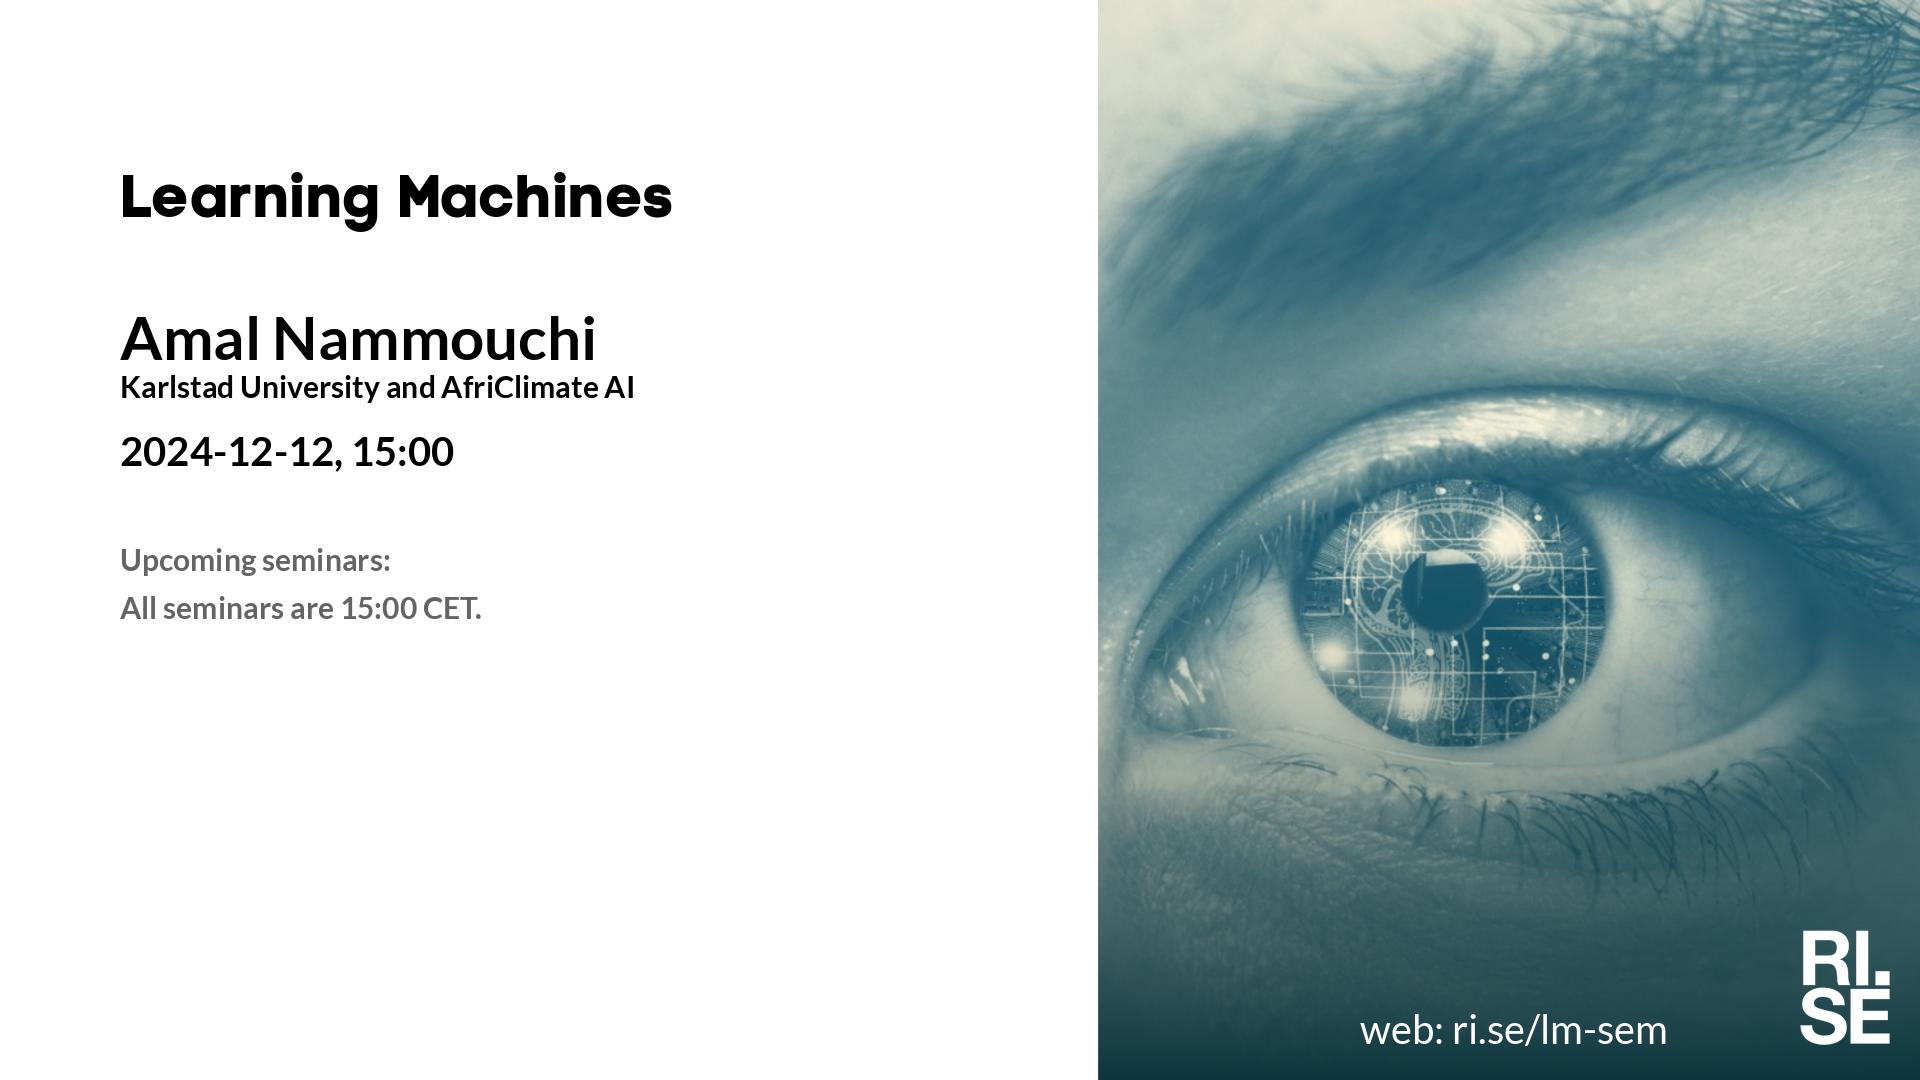
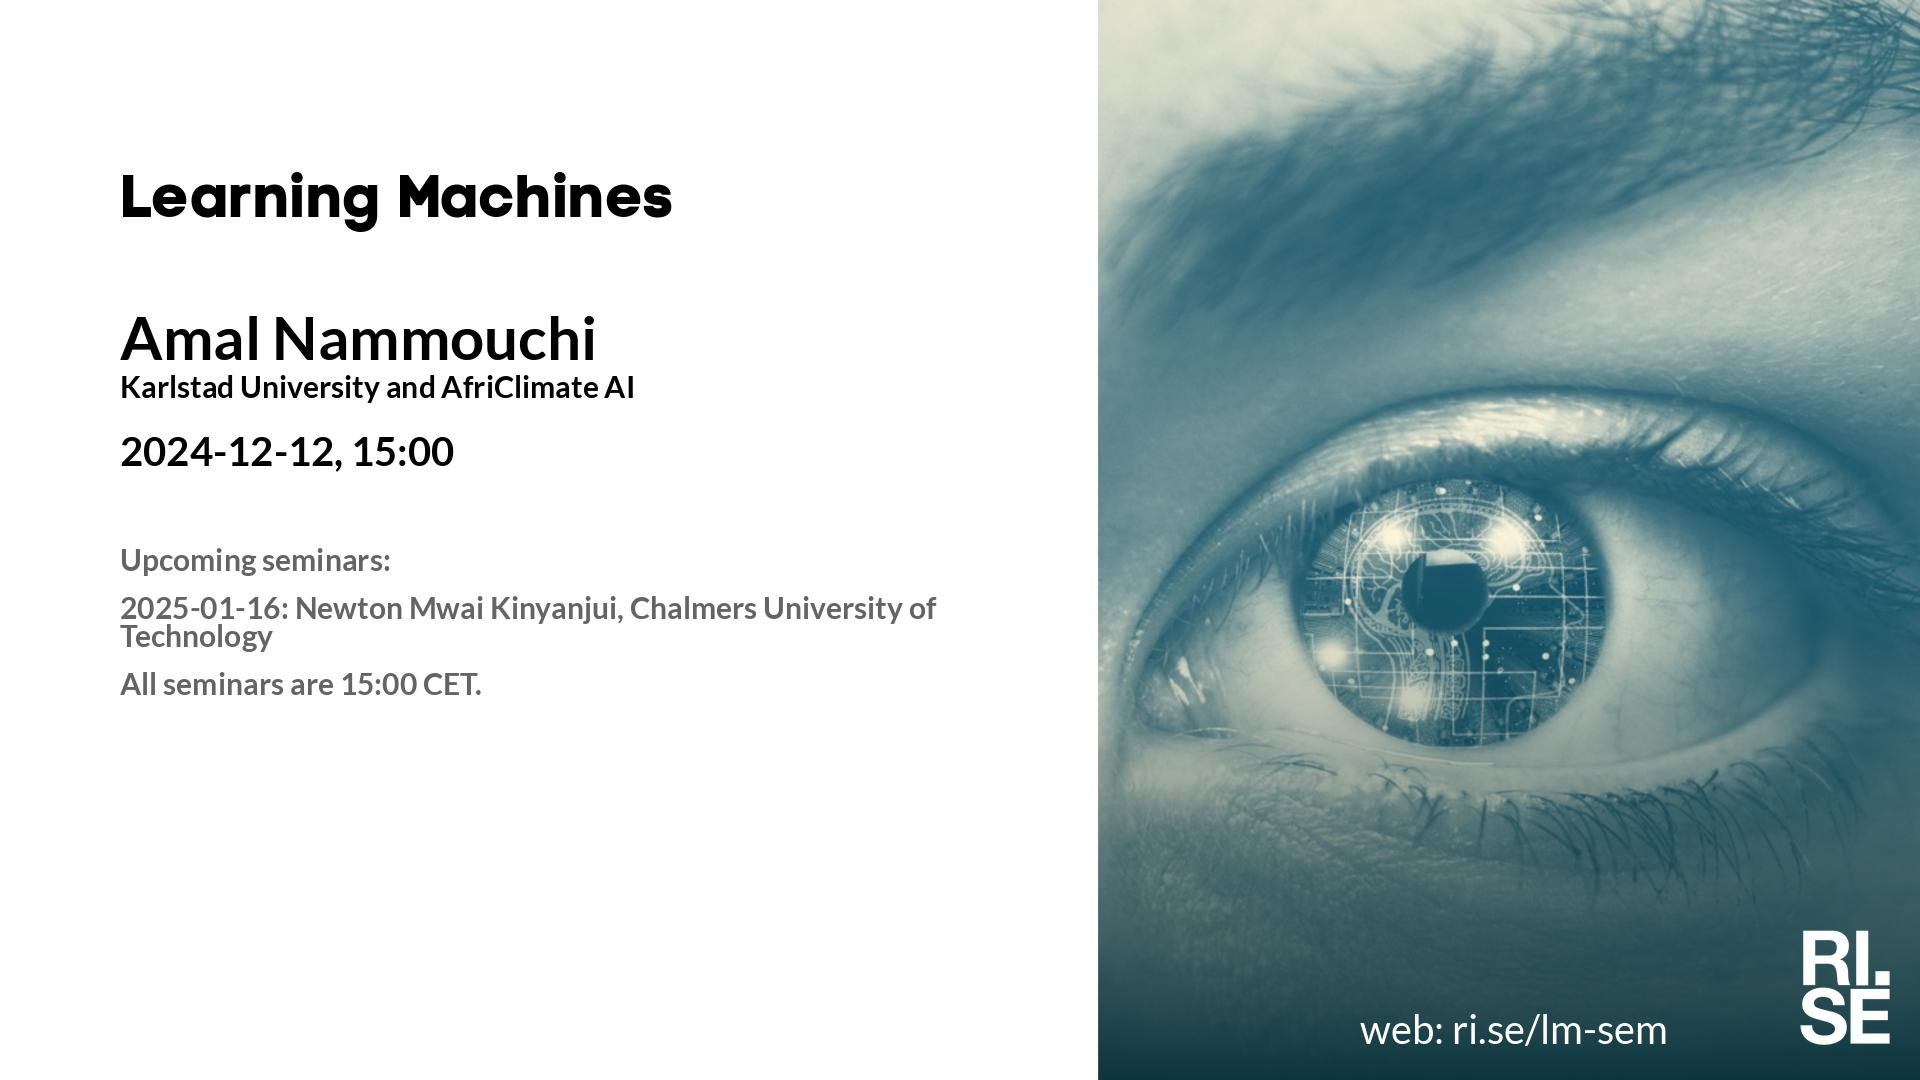
Updated plan on web site.

Changed region(s): [[0.0625, 0.55, 0.5, 0.6417]]

diff --git a/lm/index.md b/lm/index.md
@@ -22,7 +22,7 @@ table {border-collapse: collapse;}
 |  2024-12-12  |  [Amal Nammouchi, Karlstad University and AfriClimate AI](2024-12-12.md)  |    |  [social media ](social-media-amal-nammouchi.jpg)  |  [meeting backdrop ](meeting-backdrop-amal-nammouchi.jpg)  |  [youtube thumbnail ](youtube-thumbnail-amal-nammouchi.jpg)  |  S~~TABP~~  |
 | <span style="color:red"> 2024-12-19 </span> | <span style="color:red"> Jullov </span> | <span style="color:red">  </span> | <span style="color:red">  </span> | <span style="color:red">  </span> | <span style="color:red">  </span> | <span style="color:red"> CANCELLED </span> |
 | <span style="color:red"> 2024-12-26 </span> | <span style="color:red"> Jullov </span> | <span style="color:red">  </span> | <span style="color:red">  </span> | <span style="color:red">  </span> | <span style="color:red">  </span> | <span style="color:red"> CANCELLED </span> |
-| <span style="color:grey"> 2025-01-16 </span> | <span style="color:grey"> Newton M. K. ? </span> | <span style="color:grey">  </span> | <span style="color:grey">  </span> | <span style="color:grey">  </span> | <span style="color:grey">  </span> | <span style="color:grey"> S~~TABP~~ </span> |
+|  2025-01-16  |  [Newton Mwai Kinyanjui, Chalmers University of Technology](2025-01-16.md)  |    |  [social media ](social-media-newton-mwai-kinyanjui.jpg)  |  [meeting backdrop ](meeting-backdrop-newton-mwai-kinyanjui.jpg)  |  [youtube thumbnail ](youtube-thumbnail-newton-mwai-kinyanjui.jpg)  |  S~~TABP~~  |
 | <span style="color:purple"> 2025-01-23 </span> | <span style="color:purple"> *Up for grabs!!!* </span> | <span style="color:purple">  </span> | <span style="color:purple">  </span> | <span style="color:purple">  </span> | <span style="color:purple">  </span> | <span style="color:purple"> ~~STABP~~ </span> |
 | <span style="color:purple"> 2025-01-30 </span> | <span style="color:purple"> *Up for grabs!!!* </span> | <span style="color:purple">  </span> | <span style="color:purple">  </span> | <span style="color:purple">  </span> | <span style="color:purple">  </span> | <span style="color:purple"> ~~STABP~~ </span> |
 | <span style="color:purple"> 2025-02-06 </span> | <span style="color:purple"> *Up for grabs!!!* </span> | <span style="color:purple">  </span> | <span style="color:purple">  </span> | <span style="color:purple">  </span> | <span style="color:purple">  </span> | <span style="color:purple"> ~~STABP~~ </span> |

diff --git a/lm/2025-01-16.md b/lm/2025-01-16.md
@@ -6,7 +6,7 @@ Welcome to this week's Learning Machines seminar.
 
 **Title:** N/A
 
-**Speaker:** Amal Nammouchi, Karlstad University and AfriClimate AI
+**Speaker:** Newton Mwai Kinyanjui, Chalmers University of Technology
 
 **Abstract:** N/A
 
@@ -14,13 +14,12 @@ Welcome to this week's Learning Machines seminar.
 
 **Location:** This is an online seminar. Connect using Zoom.
 
-**Date:** 2024-12-12 15:00
+**Date:** 2025-01-16 15:00
 
 **Zoom link:** [https://rise.zoom.us/j/208117140](https://rise.zoom.us/j/208117140)
 
 **Upcoming seminars:**
 
-* 2025-01-16: Newton Mwai Kinyanjui, Chalmers University of Technology
 * All seminars are 15:00 CET.
 
 More information and coming seminars: [https://ri.se/lm-sem](https://ri.se/lm-sem)
